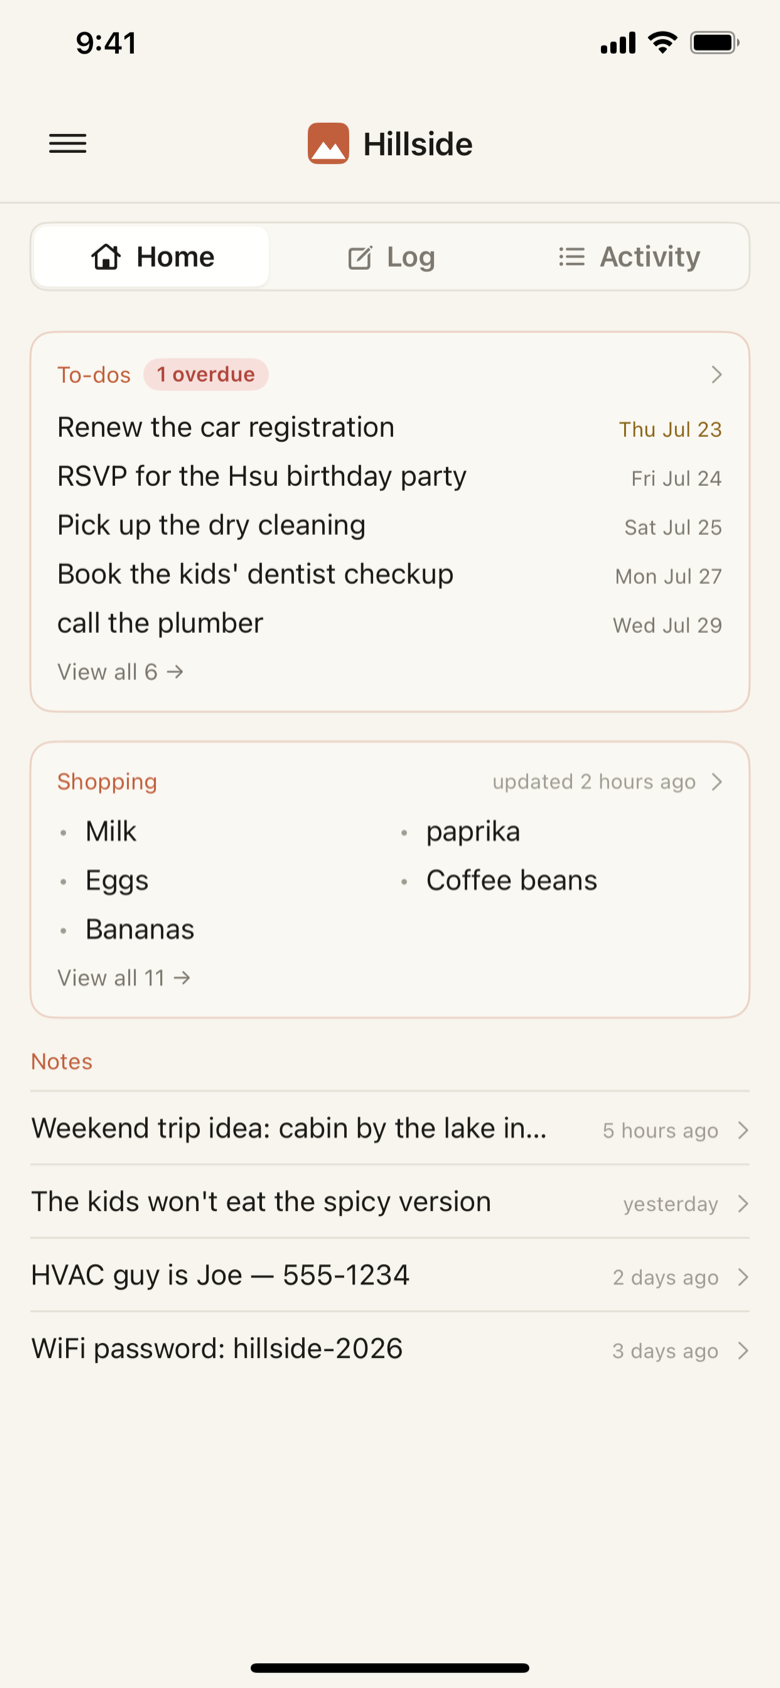
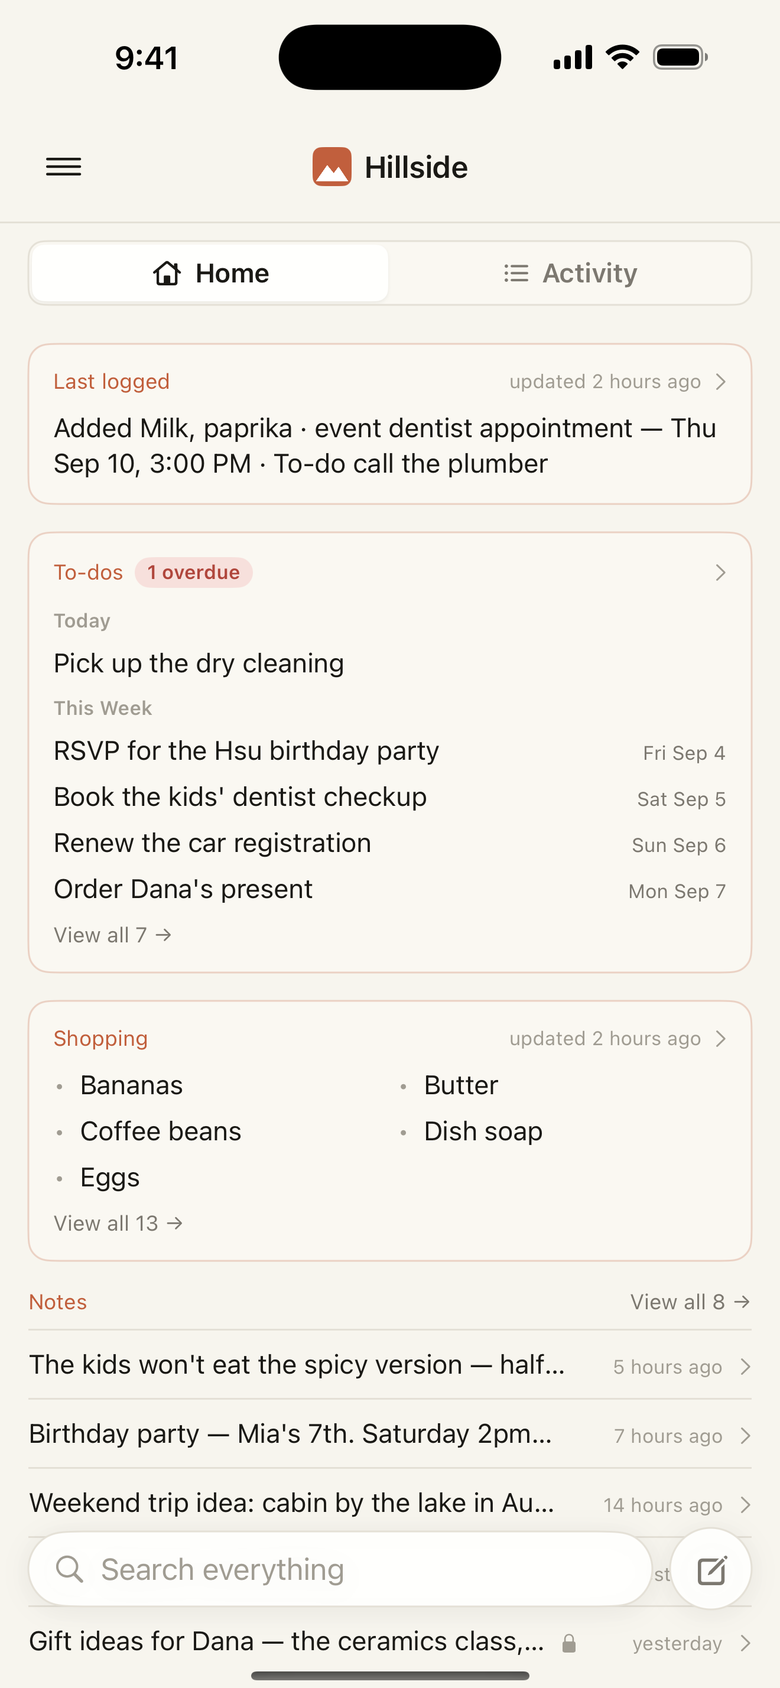
Refresh the screenshots, and retire the Log hero
Every shot on the site was from 23 July and the app has moved twice since.

The hero was the worst of it: `log.png` showed the **Log tab**, a screen that
stopped existing on 25 August. Capture is a sheet you raise from anywhere now,
so the hero is that sheet — `compose.png`, cropped full-bleed so it fills the
device frame instead of sitting in it as a card on black, and sized to the
780x1688 the markup already declares. The caption needs no change: it is still
one box, with no fields and no forms.

Two screens the gallery has never shown, both shipped since the last pass:

- **search** — one word, `birthday`, pulling a note, a to-do and a shopping item
  out of three different places at once. It is the clearest single picture of
  what the app is for.
- **share** — a note with a live link, which is the whole of "hand one thing to
  someone outside the house".

Two alt texts were describing UI that no longer exists. The receipt was rebuilt
native (hillside-ios #41, #70): the per-line "Wrong spot?" links are a menu now,
and Add to Calendar is a chip on the row. Shopping lost its in-stock/out chips
(homework #335/#336) — main's copy had already dropped that claim, so only the
image needed replacing.

Shot from the demo household on an iPhone 16 Pro Max at 1320x2868 (the App Store
set), downscaled to 780 wide for here. The demo's dates are now re-anchored on
load (homework #358), so nothing in frame reads as months stale.

diff --git a/index.html b/index.html
@@ -78,7 +78,7 @@
       </div>
       <figure class="hero">
         <div class="device">
-          <img src="screens/log.png" width="390" height="844"
+          <img src="screens/compose.png" width="390" height="844"
                alt="Hillside — one box, no fields or forms, for whatever's on your mind." />
         </div>
         <figcaption>One box. No fields, no forms.</figcaption>
@@ -178,7 +178,7 @@
         </figure>
         <figure class="shot">
           <div class="device"><img src="screens/detail.png" width="390" height="844" loading="lazy"
-               alt="A logged note opened up: what each line became, with an Add-to-Calendar link and one-tap re-routing." /></div>
+               alt="A capture opened up: what each line became — a grocery, an event, a to-do — with Add to Calendar and a menu to move any line that landed wrong." /></div>
           <figcaption>Open any line: see where it went, fix it in a tap.</figcaption>
         </figure>
         <figure class="shot">
@@ -190,6 +190,16 @@
           <div class="device"><img src="screens/shopping.png" width="390" height="844" loading="lazy"
                alt="Shopping list: what to buy, gathered in one list the whole household shares." /></div>
           <figcaption>What to buy, in one shared list.</figcaption>
+        </figure>
+        <figure class="shot">
+          <div class="device"><img src="screens/search.png" width="390" height="844" loading="lazy"
+               alt="One search across the whole house: the word birthday finding a note, a to-do and an item on the shopping list at once." /></div>
+          <figcaption>Ask instead of dig.</figcaption>
+        </figure>
+        <figure class="shot">
+          <div class="device"><img src="screens/share.png" width="390" height="844" loading="lazy"
+               alt="A note shared by link: anyone with the link can view it, and the household can stop sharing at any time." /></div>
+          <figcaption>Share just one thing out.</figcaption>
         </figure>
         <figure class="shot">
           <div class="device"><img src="screens/widget.png" width="390" height="844" loading="lazy"
